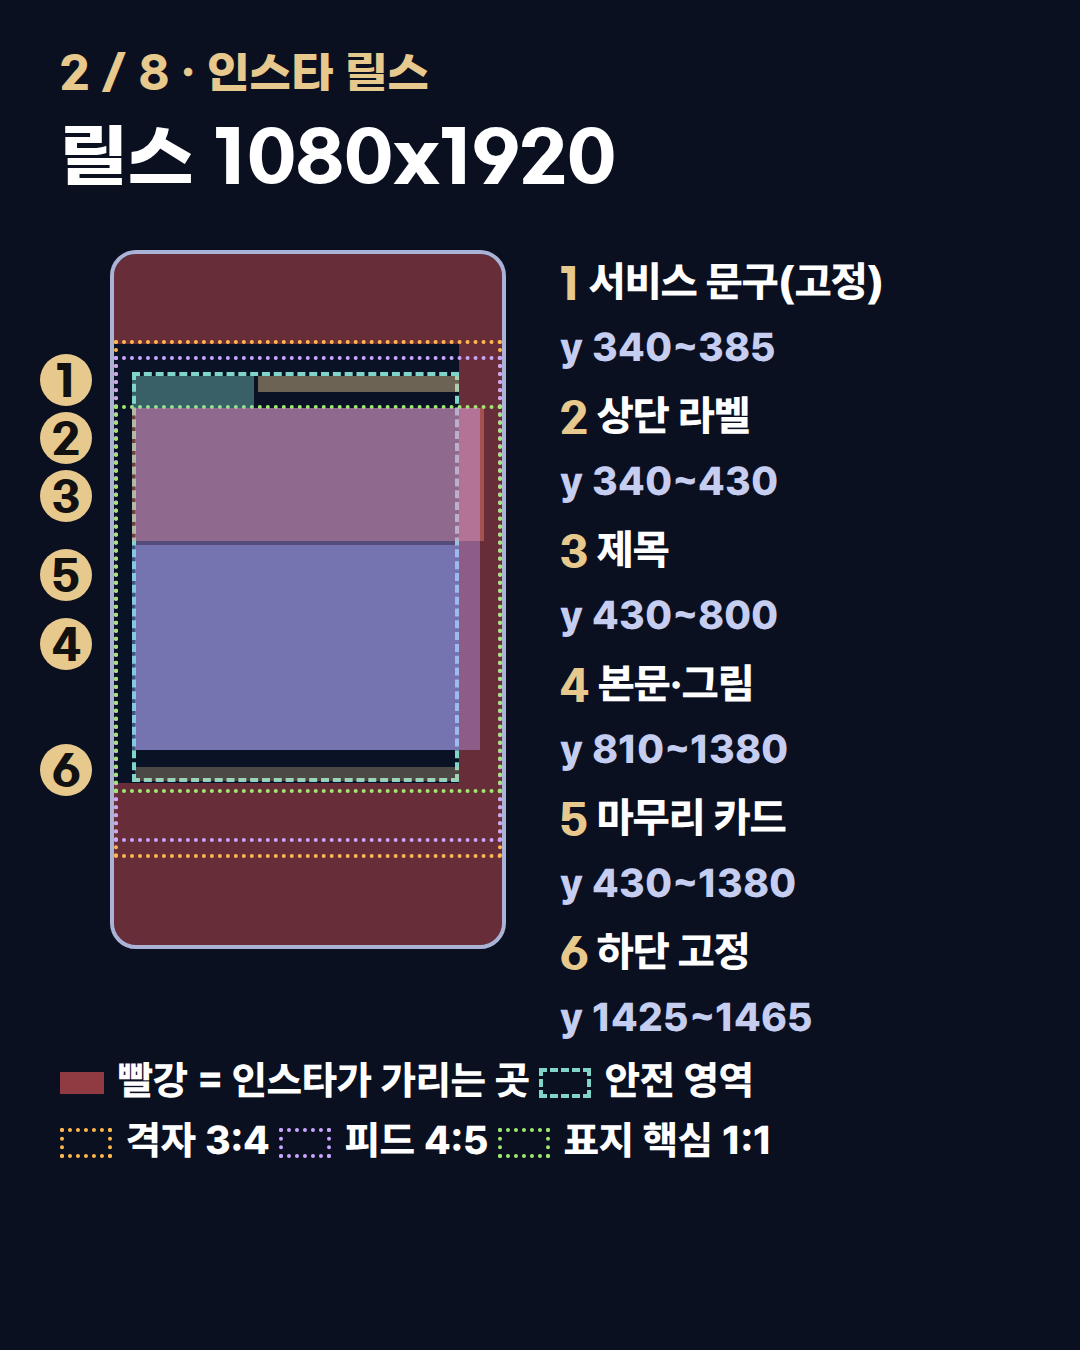
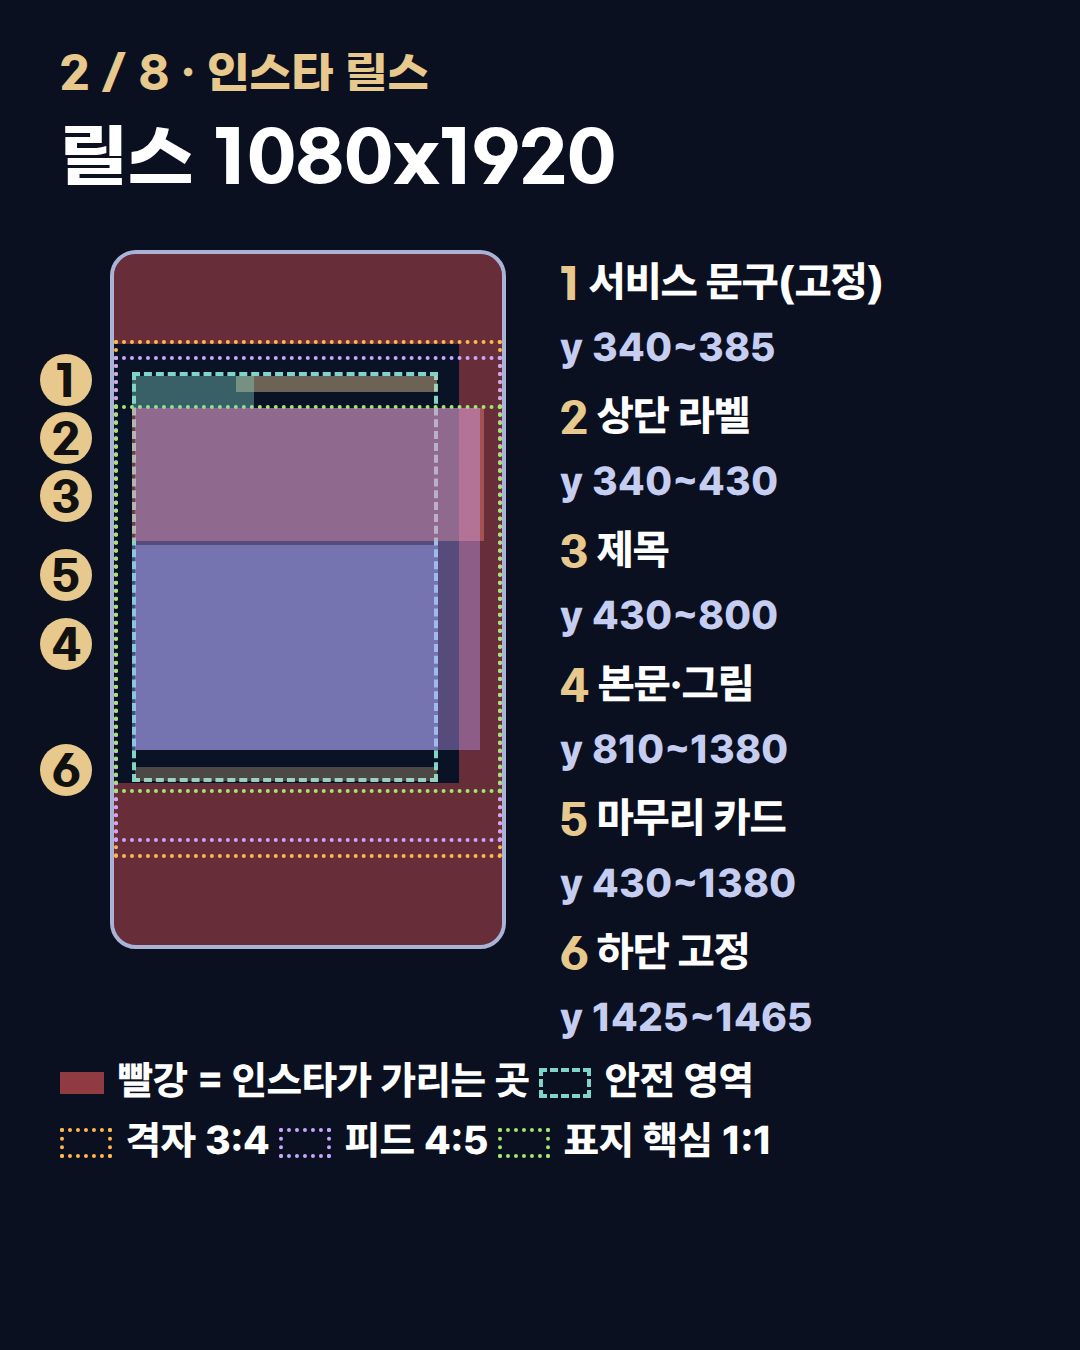
네이버 클립 캡처 실측 반영: 안전 영역 오른쪽 900으로 통일, 캡처 위 영역 그림(guide-channels v2), brand_frame 오른쪽 180

Changed region(s): [[0.3972, 0.28, 0.4278, 0.5911], [0.2139, 0.28, 0.2444, 0.3111]]

diff --git a/pipeline/channel_specs.py b/pipeline/channel_specs.py
@@ -6,24 +6,25 @@ CH = {
  "reel": dict(
     name="인스타 릴스", w=1080, h=1920, ratio="9:16", length="15~25초", conf="ok",
     ui=dict(top=250, bottom=450, right=120),               # 릴스 탭: 계정명·앱 버튼·캡션·오른쪽 좋아요·댓글 버튼이 덮는 폭
-    safe=(50, 330, 960, 1470),                              # 글자·얼굴·배지는 모두 이 안(위 330 ~ 아래 1470, 오른쪽 960)
+    safe=(50, 330, 900, 1470),                              # 글자·얼굴·배지는 모두 이 안. 오른쪽은 인스타 단독이면 960이지만 네이버 클립 버튼 줄(x 905~)과 같은 영상을 쓰므로 900으로 통일(10/6 캡처)
     crops={"프로필 격자 3:4": (0, 240, 1080, 1680), "피드 4:5": (0, 285, 1080, 1635), "표지 핵심 1:1": (0, 420, 1080, 1500)},
-    zones=[("서비스 문구(고정)", 400, 340, 960, 385, "자오선 | 동서양 6개 운명학 교차분석"), ("상단 라벨", 50, 340, 390, 430, "정월의 ○○ 같은 짧은 배지"),
-           ("제목", 50, 430, 1030, 800, "한 화면 한 메시지, 100px 안팎"), ("본문·그림", 50, 810, 960, 1380, "본문 52~58px, 그림·차트"),
-           ("마무리 카드", 60, 430, 1020, 1380, "마무리 장면은 이 안 전체를 쓴다"), ("하단 고정", 60, 1425, 960, 1465, "좌 AI 생성 캐릭터 · 우 zaoseon.com")],
+    zones=[("서비스 문구(고정)", 340, 340, 900, 385, "자오선 | 동서양 6개 운명학 교차분석"), ("상단 라벨", 50, 340, 390, 430, "정월의 ○○ 같은 짧은 배지"),
+           ("제목", 50, 430, 1030, 800, "한 화면 한 메시지, 100px 안팎"), ("본문·그림", 50, 810, 900, 1380, "본문 52~58px, 그림·차트"),
+           ("마무리 카드", 60, 430, 1020, 1380, "마무리 장면은 이 안 전체를 쓴다"), ("하단 고정", 60, 1425, 900, 1465, "좌 AI 생성 캐릭터 · 우 zaoseon.com(x≤900)")],
     fonts=dict(title="G마켓 산스 100~118px", body="프리텐다드 52~58px", label="프리텐다드 34px 이상"),
     cover="1080x1920 따로 제작. 제목·핵심 그림은 가운데 1:1(y 420~1500) 안, 프로필 격자 3:4(y 240~1680)에서도 다 보이게. 우상단·우하단 고정 요소 포함.",
     cta="마지막 6~7박자: ① 댓글 질문 한 줄 → ② 팔로우하고 더 많은 이야기 나눠요 → ③ 프로필 링크에서 생년월일 입력하고 내 첫글자와 타고난 기운 알아보기",
     body="훅(첫 화면 완성) → (낯선 말은 정월 설명) → 본문 → 마무리. 문장 2초·낱말 1초 이상, 정지 0.5초 이하."),
  "naver_clip": dict(
-    name="네이버 클립", w=1080, h=1920, ratio="9:16", length="12초 안팎(최대 3분)", conf="추정(공식 안전 영역 수치 못 찾음 — 릴스와 같은 값을 빌림)",
-    ui=dict(top=250, bottom=450, right=120), safe=(50, 330, 960, 1470),
-    crops={"블로그 스티커 자리(추정)": (200, 1100, 880, 1400)},
-    zones=[("서비스 문구(고정)", 400, 340, 960, 385, "릴스와 같음"), ("제목", 50, 430, 1030, 800, "질문·오해 교정 한 줄"), ("본문·그림", 50, 810, 960, 1100, "스티커 자리(y 1100~1400)는 비워 둔다"),
-           ("하단 고정", 60, 1425, 960, 1465, "좌 AI 생성 캐릭터 · 우 zaoseon.com")],
+    name="네이버 클립", w=1080, h=1920, ratio="9:16", length="12초 안팎(최대 3분)", conf="실측(10/6 대표 캡처 2장, 갤럭시 1080x2316). 영상 표시 영역 높이 1878이라 9:16 영상은 위아래 약 2% 줄거나 잘릴 수 있어 ±25px 여유를 둠",
+    ui=dict(top=135, bottom=431, right=175),               # 뒤로·소리 / 프로필·설명·블로그 링크 칩 / 오른쪽 챌린지·좋아요·댓글·저장 버튼 줄
+    safe=(50, 330, 900, 1470),                              # 인스타 릴스와 같은 영상을 쓰므로 두 채널의 교집합(위는 릴스, 오른쪽은 클립이 더 좁다)
+    crops={"오른쪽 버튼 줄(x 905~, y 830~1830)": (905, 830, 1080, 1830), "하단 프로필·설명·링크 칩(y 1489~)": (50, 1489, 810, 1850)},
+    zones=[("서비스 문구(고정)", 340, 340, 900, 385, "우측 끝을 x 900에 맞춤"), ("상단 라벨", 50, 340, 330, 430, "짧은 배지"), ("제목", 50, 430, 900, 800, "질문·오해 교정 한 줄"),
+           ("본문·그림", 50, 810, 900, 1380, "오른쪽 버튼 줄(x 905~)을 피함"), ("마무리 카드", 60, 430, 880, 1380, "마무리 장면 전체"), ("하단 고정", 60, 1425, 900, 1465, "좌 AI 생성 캐릭터 · 우 zaoseon.com(x≤900)")],
     fonts=dict(title="G마켓 산스 100px 안팎", body="프리텐다드 52~58px", label="프리텐다드 34px 이상"),
-    cover="클립 첫 화면이 표지. 제목과 핵심 그림을 안전 영역 안에. 블로그 글 제목을 그대로 반복하지 않는다(썸네일 문구는 제목과 다르게).",
-    cta="마지막 장면에 블로그 글로 이어지는 한 줄(스티커가 블로그로 보낸다). 사이트 주소·추적 주소 문구는 설명에 넣지 않는다.",
+    cover="클립 첫 화면이 표지. 제목과 핵심 그림을 안전 영역 안에. 블로그 글 제목을 반복하지 않는다. **4:5 카드를 클립으로 올리면 위아래가 흐린 배경으로 채워지고 플레이어 버튼이 카드 위에 겹친다(캡처 확인) — 클립은 9:16 영상으로 만든다.**",
+    cta="마지막 장면에 블로그 글로 이어지는 한 줄. 블로그 스티커는 화면 아래 왼쪽 링크 칩(x 50~530, y 1718~1812)으로 붙으므로 그 자리는 비운다. 사이트 주소·추적 주소 문구는 설명에 넣지 않는다.",
     body="블로그 글 1편에서 파생(질문·오해 교정·체크리스트). 폰의 네이버 블로그 앱에서 올려야 한다(PC 안 됨)."),
  "insta_carousel": dict(
     name="인스타 캐러셀", w=1080, h=1350, ratio="4:5 (권장 전환: 3:4 = 1080x1440)", length="7장 또는 밤 카드 3장", conf="ok",

diff --git a/pipeline/brand_frame.py b/pipeline/brand_frame.py
@@ -2,11 +2,11 @@
 - 우측 상단: "자오선 | 동서양 6개 운명학 교차분석" (서비스를 계속 알린다)
 - 우측 하단: zaoseon.com (고정)
 - 좌측 하단: "AI 생성 캐릭터" (정월이 나오는 이미지·장면에만, 위치는 항상 같은 곳)
-위치는 인스타 화면 가림(UI)을 피한다. 릴스 1080x1920: 안전 영역 위 330 · 아래 1470 · 오른쪽 960(오른쪽 버튼 120px). 카드 1080x1350: 가장자리 55px.
+위치는 인스타 화면 가림(UI)을 피한다. 릴스·클립 1080x1920: 안전 영역 위 330 · 아래 1470 · 오른쪽 900(10/6 네이버 클립 캡처 실측: 버튼 줄 x 905~). 카드 1080x1350: 가장자리 55px.
 HTML을 쓰는 생성기(카드·키네틱·리소그래프)는 css()와 html()을 붙이고, PIL 영상 엔진은 draw_reel()을 쓴다."""
 GOLD = "#e7c88d"
 TAG1, TAG2, URL, AI = "자오선", "동서양 6개 운명학 교차분석", "zaoseon.com", "AI 생성 캐릭터"
-REEL = dict(right=120, tag_top=340, bottom=455)       # 릴스: 오른쪽 120px(= x 960), 위 340, 아래 455(= y 1465)
+REEL = dict(right=180, tag_top=340, bottom=455)       # 릴스·클립 공통: 오른쪽 180px(= x 900, 네이버 클립 버튼 줄 x 905~ 피함), 위 340, 아래 455(= y 1465)
 CARD = dict(right=55, tag_top=58, bottom=46)
 def css():
     return (".bf{position:absolute;white-space:nowrap;z-index:40}"
